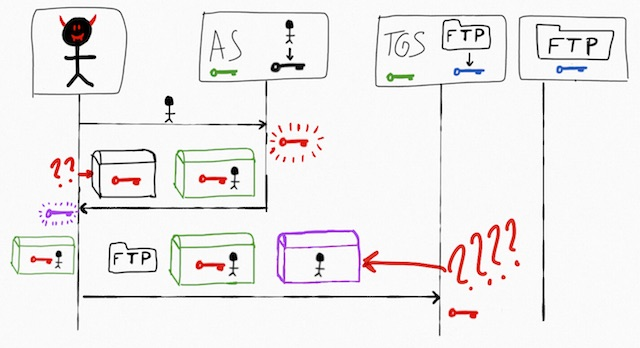
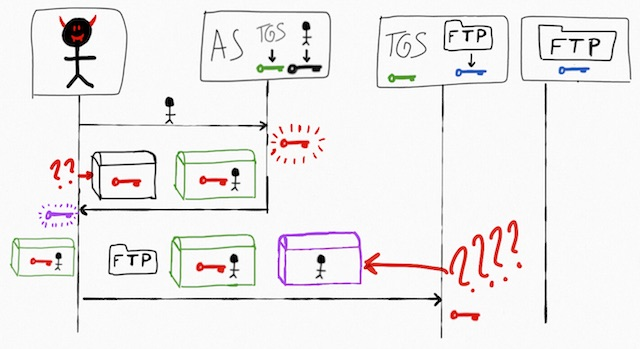
Minor update in Kerberos explanation

diff --git a/2017/03/26/Kerberos-explained-in-pictures/index.html b/2017/03/26/Kerberos-explained-in-pictures/index.html
@@ -135,7 +135,7 @@
   <li>Chests can only be opened by a key of the same colour.</li>
   <li>Keys can be used to create chests of the same colour.</li>
   <li>Anyone can create a new colour key, as long as the colour doesn’t exist already.</li>
-</ol><p>How would you do it?</p><h3>The setup</h3><p>Here are the actors and the initial game setup:</p><p><img src="/images/kerberos-initial-setup.jpg" alt="Kerberos initial setup" title="Kerberos initial setup" /></p><p>The Dark user, who has a black key.</p><p>The FTP service, who has a blue key.</p><p>The AS, who has a green key, plus he knows that the user has a black key and has a copy of it. Other users would have keys of other colours.</p><p>The TGS has a green key, plus he knows that the FTP server has a blue key and has a copy of it. Other services would have keys of other colours.</p><h3>The play</h3><p><img src="/images/kerberos-for-dummies.jpg" alt="Kerberos in one picture" title="Kerberos solution diagram" /></p><p>Lets explain the initial interactions to make it more clear.</p>
+</ol><p>How would you do it?</p><h3>The setup</h3><p>Here are the actors and the initial game setup:</p><p><img src="/images/kerberos-initial-setup.jpg" alt="Kerberos initial setup" title="Kerberos initial setup" /></p><p>The Dark user, who has a black key.</p><p>The FTP service, who has a blue key.</p><p>The TGS has a green key, plus he knows that the FTP server has a blue key and has a copy of it. Other services would have keys of other colours.</p><p>The AS, who knows and has a copy of TGS’s green key the user’s black key. Other users would have keys of other colours.</p><h3>The play</h3><p><img src="/images/kerberos-for-dummies.jpg" alt="Kerberos in one picture" title="Kerberos solution diagram" /></p><p>Lets explain the initial interactions to make it more clear.</p>
 <ol>
   <li>The user starts by sending his name in plain sight to the AS.</li>
   <li>The AS forges a new red key.</li>
@@ -147,6 +147,7 @@
 <dt>TGS</dt><dd>Ticket Granting Service.</dd>
 <dt>FTP</dt><dd>The service the user wants to access.</dd>
 <dt>Black key</dt><dd>user hashed password.</dd>
+<dt>Green key</dt><dd>TGS Secret Key.</dd>
 <dt>Red key</dt><dd>Client/TGS Session Key.</dd>
 <dt>Green chest</dt><dd>Ticket-Granting-Ticket.</dd>
 <dt>Yellow key</dt><dd>Client/Server Session Key.</dd>
